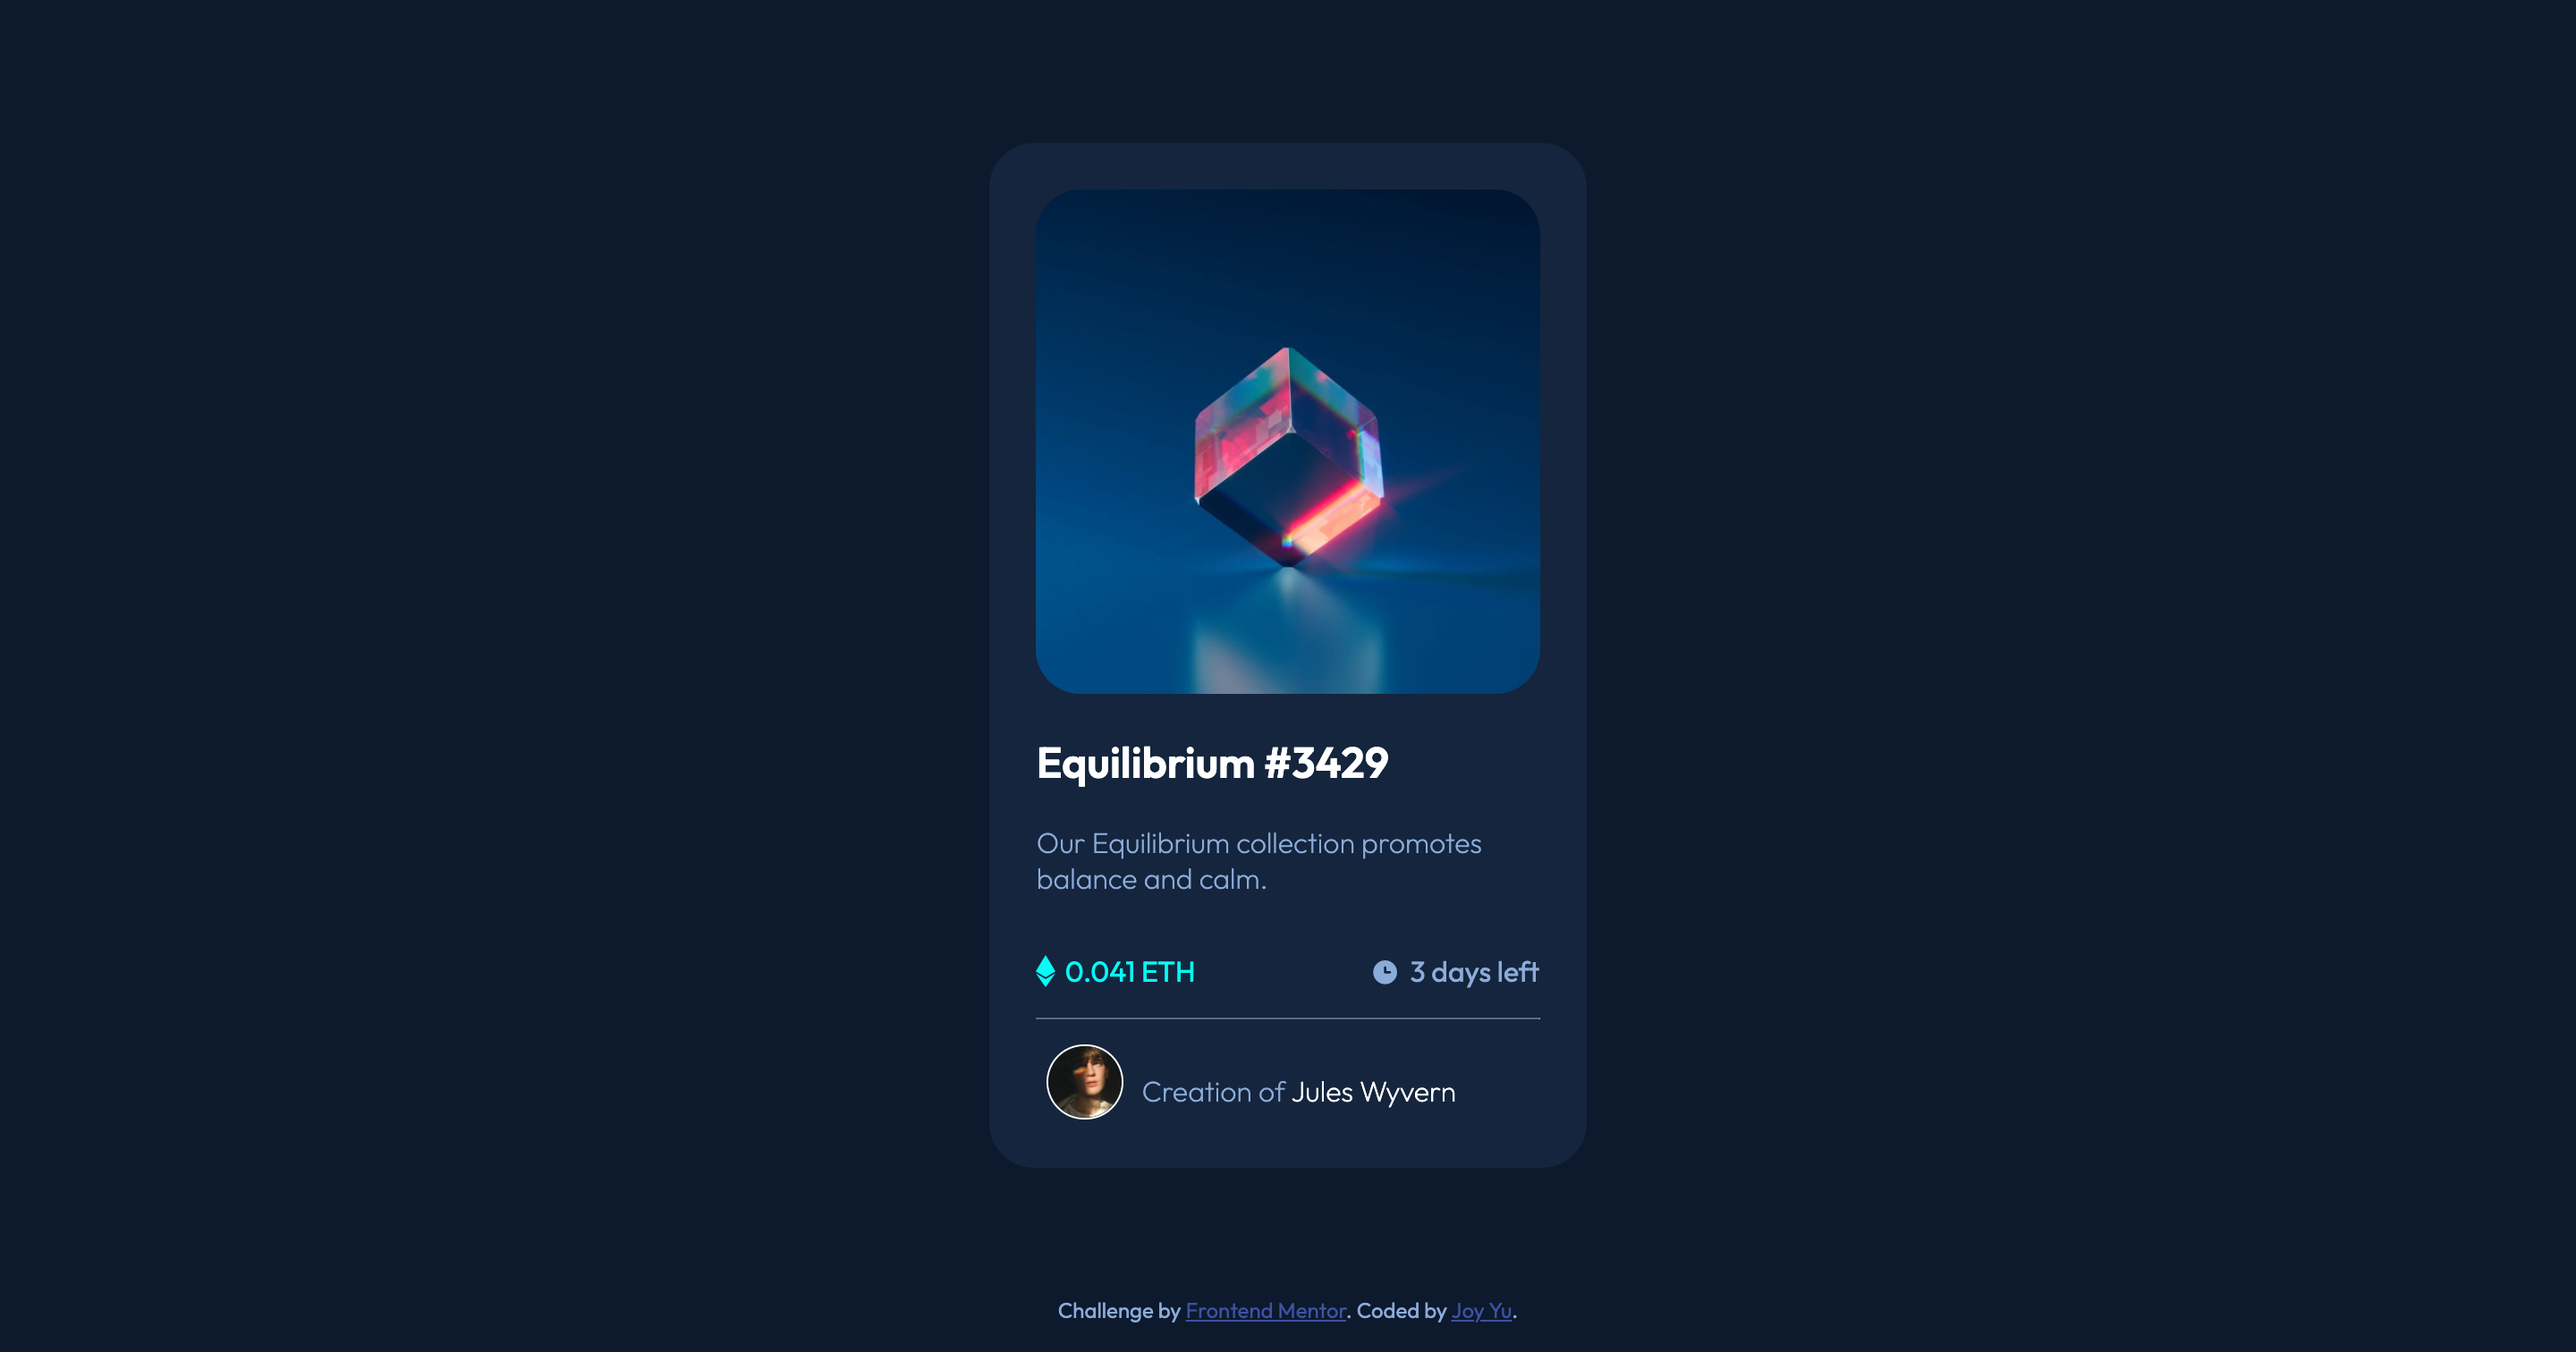
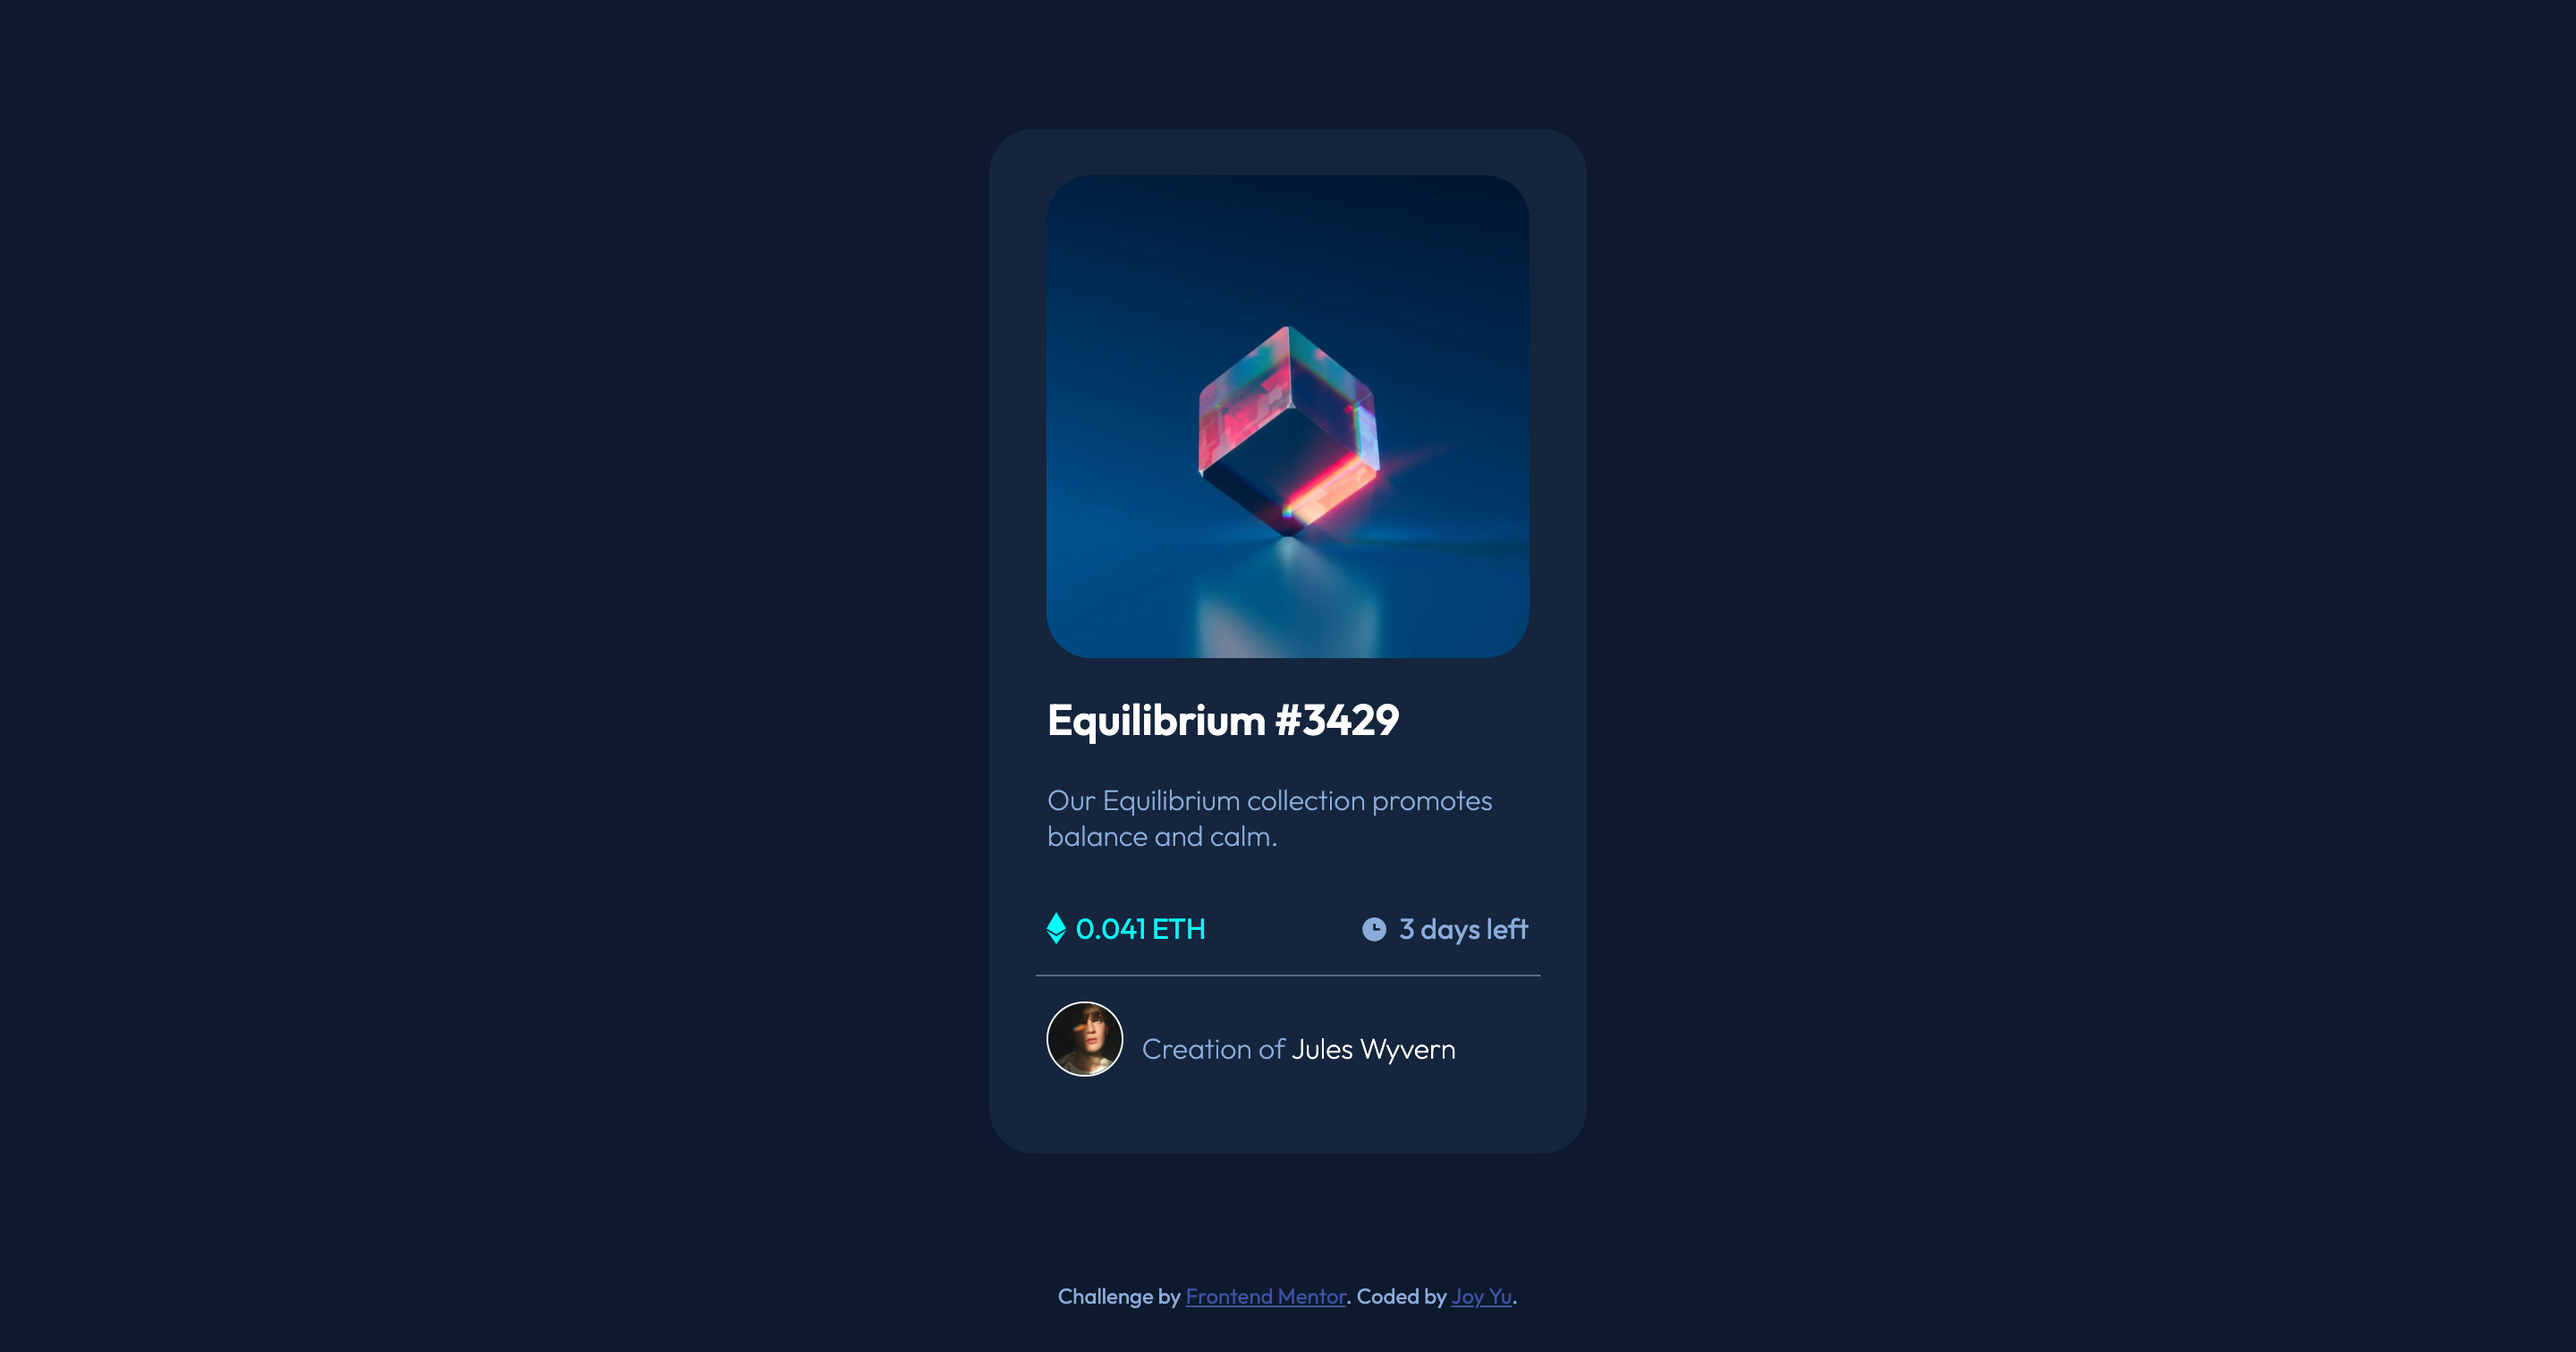
Update

Changed region(s): [[0.375, 0.2176, 0.625, 0.8393], [0.4062, 0.9325, 0.5938, 0.9947]]

diff --git a/index.html b/index.html
@@ -37,12 +37,12 @@
 
     <div class="container">
       <div class="wrapper">
-        <div class="top-image-container">
+        <div class="section top-image-container">
           <img class="top-image" src="images/image-equilibrium.jpg" alt="top-image">
           <img class="hover icon-view" src="images/icon-view.svg" alt="">
         </div>
 
-        <div class="text">
+        <div class="section text">
           <div class="text-header">
             <h2 class="hover">Equilibrium #3429</h2>
           </div>
@@ -50,13 +50,13 @@
 
             <p class="subtitle">Our Equilibrium collection promotes balance and calm.</p>
             <div class="boxes">
-              <div class="box ETH-box">
+              <div class="ETH-box">
                 <img class="ETH" src="images/icon-ethereum.svg" alt="ethereum-icon">
                 <p>0.041 ETH</p>
               </div>
 
 
-              <div class="box clock-box">
+              <div class="clock-box">
                 <img class="clock-icon" src="images/icon-clock.svg" alt="clock-icon">
                 <p class="clock-text">3 days left</p>
               </div>
@@ -72,22 +72,22 @@
 
 
         <hr>
-        <div class="footer">
+        <div class="section footer">
           <img class="avatar" src="images/image-avatar.png" alt="avatar-image">
           <p>Creation of <span class="hover">Jules Wyvern</span></p>
         </div>
 
-      </div>
-
-
-      <div class="attribution">
-        Challenge by <a href="https://www.frontendmentor.io?ref=challenge" target="_blank">Frontend Mentor</a>.
-        Coded by <a href="#">Joy Yu</a>.
-      </div>
     </div>
 
-
   </main>
+  <div class="attribution">
+        Challenge by <a href="https://www.frontendmentor.io?ref=challenge" target="_blank">Frontend Mentor</a>.
+        Coded by <a href="#">Joy Yu</a>.
+
+  </div>
+
+
+
 </body>
 
 </html>

diff --git a/css/styles.css b/css/styles.css
@@ -2,9 +2,7 @@ body {
   font-family: 'Outfit', sans-serif;
   background-color: hsl(217, 54%, 11%);
   color: hsl(215, 51%, 70%);
-  background-size: 100%;
-  display: flex;
-  justify-content: center;
+
 }
 
 hr {
@@ -20,18 +18,21 @@ hr {
 .container {
   max-height: 100%;
   max-width: 100%;
-  width: 375px;
-  height: 667px;
+
   margin: auto;
 }
 
 .wrapper {
   background-color: hsl(216, 50%, 16%);
-  width: 75%;
-  height: 78%;
+  width: 281.25px;
+  height: 520.26px;
   margin: 4.5rem auto;
-  padding: 7%;
+  padding: 26.25px;
   border-radius: 25px;
+}
+
+.section {
+  margin: auto;
 }
 
 .top-image-container {
@@ -62,7 +63,7 @@ hr {
 }
 
 .text {
-  width: 100%;
+  width: 269.25px;
 }
 
 .text-header {
